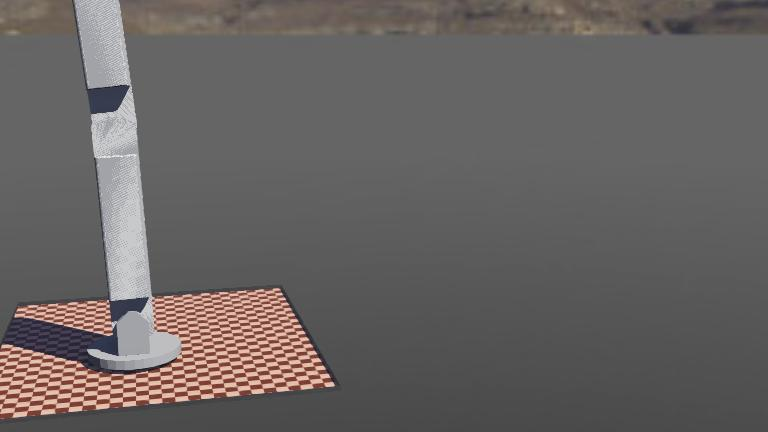
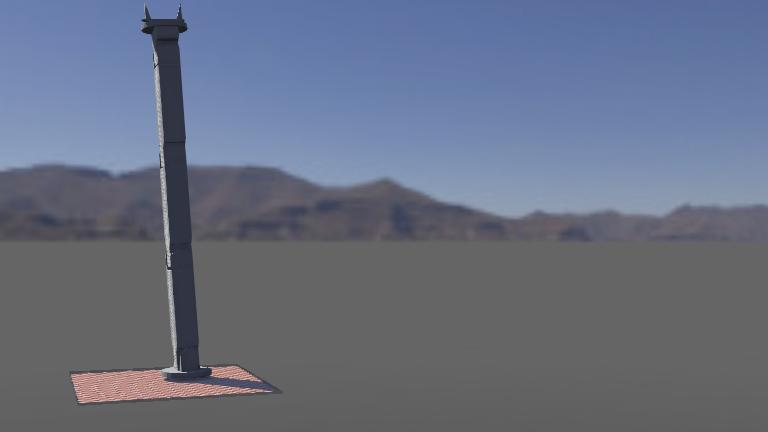
Añade controlador para todos los motores y reestructura cadena cinemática del brazo para corregir separaciones y alinear ejes en Y

diff --git a/controllers/robot_brazo/robot_brazo.py b/controllers/robot_brazo/robot_brazo.py
@@ -1,37 +1,117 @@
+"""
+Controlador para el brazo robótico de 3 segmentos + garra.
+
+Motores y controles:
+  motor_base    → ← / →      Rotación horizontal de la base
+  motor_brazo_1 ↑ / ↓        Elevación del hombro
+  motor_brazo_2 A / D         Flexión del codo (antebrazo)
+  motor_brazo_3 Q / E         Rotación de la muñeca
+  motor_garra   W / S         Abrir / cerrar garra (ambos dedos)
+"""
+
 from controller import Robot, Keyboard
 
-robot = Robot()
+# ── Configuración ──────────────────────────────────────────────────────────────
+VEL_BASE   = 0.4   # rad/s — velocidad de rotación de la base
+VEL_BRAZO  = 0.3   # rad/s — velocidad de los segmentos del brazo
+VEL_GARRA  = 0.5   # rad/s — velocidad de apertura/cierre de la garra
+
+# ── Inicialización del robot ───────────────────────────────────────────────────
+robot    = Robot()
 timestep = int(robot.getBasicTimeStep())
 
-motor1 = robot.getDevice("motor_brazo_1")
-sensor1 = robot.getDevice("sensor_brazo_1")
-sensor1.enable(timestep)
-motor1.setPosition(float('inf'))
-motor1.setVelocity(0.0)
+# ── Motor y sensor: BASE ──────────────────────────────────────────────────────
+motor_base   = robot.getDevice("motor_base")
+sensor_base  = robot.getDevice("sensor_base")
+sensor_base.enable(timestep)
+motor_base.setPosition(float('inf'))
+motor_base.setVelocity(0.0)
 
-motor2 = robot.getDevice("motor_brazo2_1")
-sensor2 = robot.getDevice("sensor_brazo2_1")
-sensor2.enable(timestep)
-motor2.setPosition(float('inf'))
-motor2.setVelocity(0.0)
+# ── Motor y sensor: HOMBRO (brazo 1) ──────────────────────────────────────────
+motor_b1   = robot.getDevice("motor_brazo_1")
+sensor_b1  = robot.getDevice("sensor_brazo_1")
+sensor_b1.enable(timestep)
+motor_b1.setPosition(float('inf'))
+motor_b1.setVelocity(0.0)
 
+# ── Motor y sensor: CODO (brazo 2) ────────────────────────────────────────────
+motor_b2   = robot.getDevice("motor_brazo_2")
+sensor_b2  = robot.getDevice("sensor_brazo_2")
+sensor_b2.enable(timestep)
+motor_b2.setPosition(float('inf'))
+motor_b2.setVelocity(0.0)
+
+# ── Motor y sensor: MUÑECA (brazo 3) ──────────────────────────────────────────
+motor_b3   = robot.getDevice("motor_brazo_3")
+sensor_b3  = robot.getDevice("sensor_brazo_3")
+sensor_b3.enable(timestep)
+motor_b3.setPosition(float('inf'))
+motor_b3.setVelocity(0.0)
+
+# ── Motores y sensores: GARRA (dedo izq + dedo der sincronizados) ─────────────
+motor_gi   = robot.getDevice("motor_garra_izq")
+motor_gd   = robot.getDevice("motor_garra_der")
+sensor_gi  = robot.getDevice("sensor_garra_izq")
+sensor_gd  = robot.getDevice("sensor_garra_der")
+sensor_gi.enable(timestep)
+sensor_gd.enable(timestep)
+motor_gi.setPosition(float('inf'))
+motor_gd.setPosition(float('inf'))
+motor_gi.setVelocity(0.0)
+motor_gd.setVelocity(0.0)
+
+# ── Teclado ───────────────────────────────────────────────────────────────────
 keyboard = Keyboard()
 keyboard.enable(timestep)
 
+print("=== Brazo Robótico — Controles ===")
+print("  ← / →   : Rotar base")
+print("  ↑ / ↓   : Hombro (brazo 1)")
+print("  A / D   : Codo   (brazo 2)")
+print("  Q / E   : Muñeca (brazo 3)")
+print("  W / S   : Garra  (abrir / cerrar)")
+print("==================================")
+
+# ── Bucle principal ───────────────────────────────────────────────────────────
 while robot.step(timestep) != -1:
     key = keyboard.getKey()
-    if key == Keyboard.UP:
-        motor1.setVelocity(0.3)
-        motor2.setVelocity(0.0)
+
+    # Detener todos los motores por defecto
+    motor_base.setVelocity(0.0)
+    motor_b1.setVelocity(0.0)
+    motor_b2.setVelocity(0.0)
+    motor_b3.setVelocity(0.0)
+    motor_gi.setVelocity(0.0)
+    motor_gd.setVelocity(0.0)
+
+    # ── BASE ──────────────────────────────────────────────────────────────────
+    if key == Keyboard.LEFT:
+        motor_base.setVelocity(VEL_BASE)
+    elif key == Keyboard.RIGHT:
+        motor_base.setVelocity(-VEL_BASE)
+
+    # ── HOMBRO ────────────────────────────────────────────────────────────────
+    elif key == Keyboard.UP:
+        motor_b1.setVelocity(VEL_BRAZO)
     elif key == Keyboard.DOWN:
-        motor1.setVelocity(-0.3)
-        motor2.setVelocity(0.0)
+        motor_b1.setVelocity(-VEL_BRAZO)
+
+    # ── CODO ──────────────────────────────────────────────────────────────────
     elif key == ord('A'):
-        motor2.setVelocity(0.3)
-        motor1.setVelocity(0.0)
+        motor_b2.setVelocity(VEL_BRAZO)
     elif key == ord('D'):
-        motor2.setVelocity(-0.3)
-        motor1.setVelocity(0.0)
-    else:
-        motor1.setVelocity(0.0)
-        motor2.setVelocity(0.0)
+        motor_b2.setVelocity(-VEL_BRAZO)
+
+    # ── MUÑECA ────────────────────────────────────────────────────────────────
+    elif key == ord('Q'):
+        motor_b3.setVelocity(VEL_BRAZO)
+    elif key == ord('E'):
+        motor_b3.setVelocity(-VEL_BRAZO)
+
+    # ── GARRA (ambos dedos sincronizados en espejo) ────────────────────────────
+    elif key == ord('W'):
+        motor_gi.setVelocity(VEL_GARRA)
+        motor_gd.setVelocity(VEL_GARRA)
+    elif key == ord('S'):
+        motor_gi.setVelocity(-VEL_GARRA)
+        motor_gd.setVelocity(-VEL_GARRA)